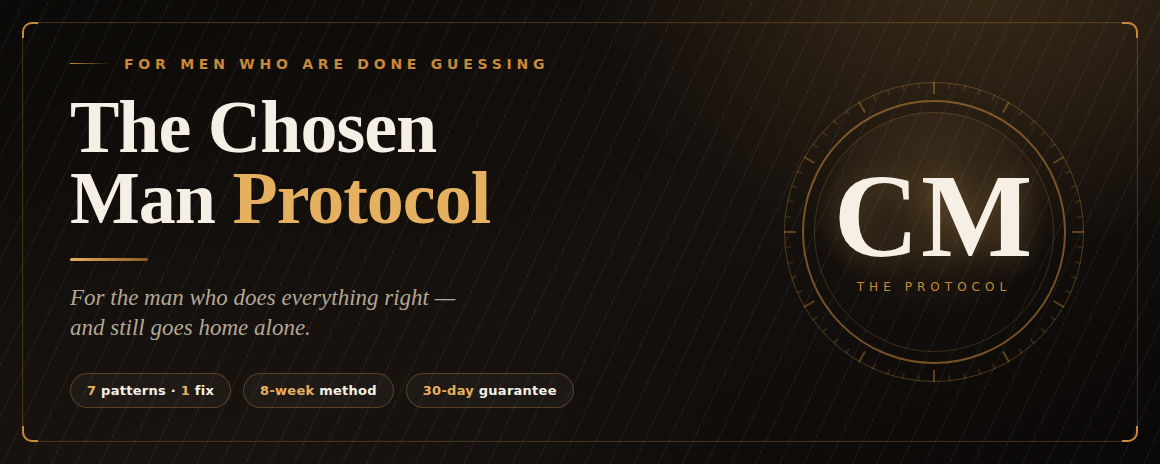
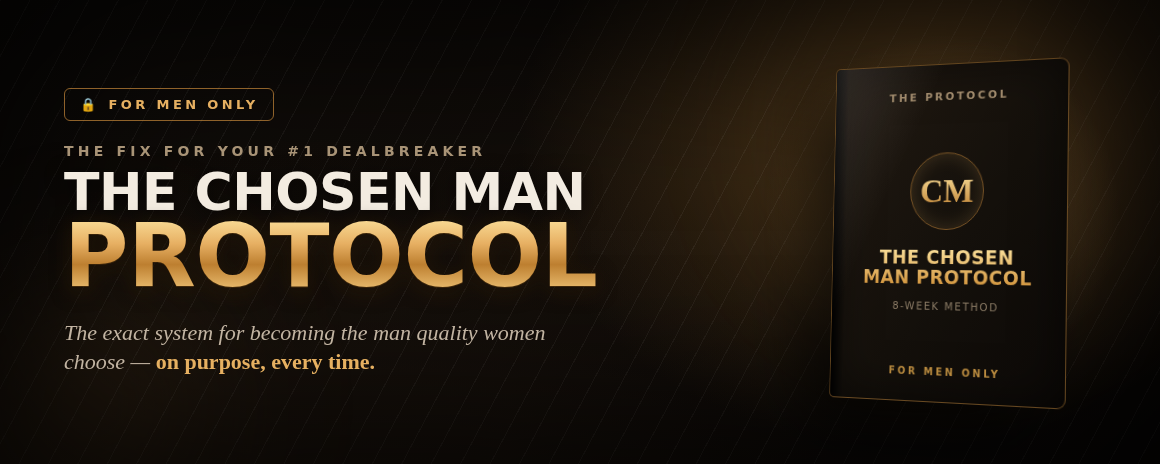
Rework Lava Top offer + cover to match mentor's style
After seeing the mentor's actual Lava Top page (Timur Karimov, "The First
Date Blueprint", $29):

- lava-top-offer.md: rewritten to his lean, punchy format — short
  empathetic hook + reframe, "Inside you'll get" with 8 specific arrow
  bullets, and the "one coffee / completely different dating life" close.
  Keeps $29 and the Chosen Man Protocol content.
- cover-1160x464.png: redesigned bolder and more dramatic to match his
  energy — heavy uppercase title with metallic-gold "PROTOCOL", a
  FOR MEN ONLY badge, moody atmosphere, and a 3D book mockup. Still
  exactly 1160x464.
- cover-source.html: updated source.

Claude-Session: https://claude.ai/code/session_01QY2NHMhyamBovSt7zUoXhV

diff --git a/product/cover-source.html b/product/cover-source.html
@@ -3,116 +3,102 @@
 <head>
 <meta charset="utf-8">
 <style>
-  @page{size:1160px 464px;margin:0}
   *{margin:0;padding:0;box-sizing:border-box}
   html,body{width:1160px;height:464px;overflow:hidden}
   :root{
-    --gold:#c8893a;--gold-soft:#e6b061;--gold-deep:#8a5a1e;
-    --ink:#f5efe5;--muted:#b3a796;--muted-2:#7d7264;
-    --serif:"Bitstream Charter","Liberation Serif",Georgia,serif;
     --sans:"DejaVu Sans","Liberation Sans",Arial,sans-serif;
+    --serif:"Bitstream Charter","Liberation Serif",Georgia,serif;
   }
-  .stage{position:relative;width:1160px;height:464px;
+  .stage{position:relative;width:1160px;height:464px;overflow:hidden;font-family:var(--sans);
     background:
-      radial-gradient(680px 520px at 84% -8%, #3a2a17 0%, rgba(58,42,23,0) 58%),
-      radial-gradient(900px 700px at 18% 120%, #1a1410 0%, rgba(26,20,16,0) 60%),
-      linear-gradient(155deg,#0c0a08 0%, #15110d 55%, #0a0807 100%);
-    overflow:hidden;font-family:var(--sans)}
-  /* subtle texture lines */
-  .grain{position:absolute;inset:0;opacity:.06;
-    background-image:repeating-linear-gradient(115deg, #fff 0 1px, transparent 1px 22px)}
-  /* inset frame */
-  .frame{position:absolute;inset:22px;border:1px solid rgba(200,137,58,.28);border-radius:10px;
-    box-shadow:inset 0 0 0 1px rgba(255,255,255,.02)}
-  .corner{position:absolute;width:16px;height:16px;border:2px solid var(--gold)}
-  .corner.tl{top:22px;left:22px;border-right:none;border-bottom:none;border-radius:10px 0 0 0}
-  .corner.tr{top:22px;right:22px;border-left:none;border-bottom:none;border-radius:0 10px 0 0}
-  .corner.bl{bottom:22px;left:22px;border-right:none;border-top:none;border-radius:0 0 0 10px}
-  .corner.br{bottom:22px;right:22px;border-left:none;border-top:none;border-radius:0 0 10px 0}
+      radial-gradient(700px 560px at 78% 30%, #4a3417 0%, rgba(74,52,23,0) 55%),
+      radial-gradient(900px 700px at 30% 120%, #19120c 0%, rgba(25,18,12,0) 60%),
+      linear-gradient(160deg,#0b0907 0%, #120d09 50%, #080605 100%);}
+  /* smoke / atmosphere */
+  .smoke{position:absolute;border-radius:50%;filter:blur(60px);opacity:.5}
+  .s1{width:520px;height:420px;right:-60px;top:-80px;background:radial-gradient(circle,#6b4a22,transparent 65%)}
+  .s2{width:420px;height:360px;left:-120px;bottom:-120px;background:radial-gradient(circle,#3a2a16,transparent 65%);opacity:.6}
+  .grain{position:absolute;inset:0;opacity:.05;
+    background-image:repeating-linear-gradient(118deg,#fff 0 1px,transparent 1px 26px)}
+  .vignette{position:absolute;inset:0;box-shadow:inset 0 0 160px 40px rgba(0,0,0,.75)}
 
-  .content{position:absolute;inset:0;display:flex;align-items:center;justify-content:space-between;
-    padding:54px 70px}
-  /* left */
-  .left{max-width:710px}
-  .eyebrow{font-size:14px;letter-spacing:.34em;text-transform:uppercase;color:var(--gold);
-    font-weight:700;margin-bottom:20px;display:flex;align-items:center;gap:14px}
-  .eyebrow .ln{width:40px;height:1px;background:linear-gradient(90deg,var(--gold),transparent)}
-  h1{font-family:var(--serif);font-weight:700;color:var(--ink);
-    font-size:74px;line-height:.96;letter-spacing:-1px}
-  h1 .alt{color:var(--gold-soft)}
-  .rule{width:78px;height:3px;background:linear-gradient(90deg,var(--gold-soft),var(--gold-deep));
-    margin:24px 0 22px;border-radius:2px}
-  .sub{font-family:var(--serif);font-size:23px;line-height:1.32;color:var(--muted);max-width:560px;font-style:italic}
-  .pills{display:flex;gap:12px;margin-top:30px}
-  .pill{font-family:var(--sans);font-size:13px;font-weight:600;letter-spacing:.02em;color:var(--ink);
-    background:rgba(255,255,255,.035);border:1px solid rgba(200,137,58,.35);
-    padding:9px 16px;border-radius:99px;white-space:nowrap}
-  .pill b{color:var(--gold-soft)}
+  .content{position:absolute;inset:0;display:flex;align-items:center;padding:0 64px}
+  /* LEFT */
+  .left{width:660px;z-index:3}
+  .badge{display:inline-flex;align-items:center;gap:9px;border:1.5px solid rgba(200,137,58,.7);
+    color:#e6b061;font-size:13px;font-weight:700;letter-spacing:.26em;text-transform:uppercase;
+    padding:8px 15px;border-radius:6px;margin-bottom:22px}
+  .badge .lock{font-size:13px}
+  .kicker{font-size:14px;letter-spacing:.30em;text-transform:uppercase;color:#a99477;font-weight:700;margin-bottom:10px}
+  .title{font-family:var(--sans);font-weight:800;text-transform:uppercase;line-height:.92;letter-spacing:-.5px}
+  .title .l1{font-size:52px;color:#f3ece1;text-shadow:0 2px 18px rgba(0,0,0,.6)}
+  .title .l2{font-size:88px;
+    background:linear-gradient(180deg,#fbe09b 0%,#e7b063 34%,#bd7f30 60%,#f6cd80 100%);
+    -webkit-background-clip:text;background-clip:text;color:transparent;
+    filter:drop-shadow(0 3px 10px rgba(0,0,0,.55)) drop-shadow(0 1px 0 rgba(120,75,20,.6))}
+  .sub{font-family:var(--serif);font-style:italic;font-size:22px;line-height:1.3;color:#c2b4a2;
+    max-width:540px;margin-top:22px}
+  .sub b{color:#e6b061;font-style:normal;font-weight:700}
 
-  /* right emblem */
-  .emblem{position:relative;width:300px;height:300px;flex:0 0 auto;margin-right:6px}
-  .ring{position:absolute;border-radius:50%}
-  .ring.r1{inset:0;border:1px solid rgba(200,137,58,.35)}
-  .ring.r2{inset:18px;border:2px solid rgba(200,137,58,.55)}
-  .ring.r3{inset:30px;border:1px solid rgba(200,137,58,.25)}
-  .glow{position:absolute;inset:30px;border-radius:50%;
-    background:radial-gradient(circle at 50% 35%, rgba(230,176,97,.16), rgba(230,176,97,0) 62%)}
-  .mono{position:absolute;inset:30px;display:flex;flex-direction:column;align-items:center;justify-content:center}
-  .mono .big{font-family:var(--serif);font-weight:700;font-size:118px;line-height:.8;
-    color:var(--ink);letter-spacing:2px;
-    text-shadow:0 2px 30px rgba(230,176,97,.25)}
-  .mono .cap{font-family:var(--sans);font-size:12px;letter-spacing:.42em;text-transform:uppercase;
-    color:var(--gold);margin-top:16px}
-  /* tick marks around ring */
-  .tick{position:absolute;top:50%;left:50%;width:2px;height:9px;background:rgba(200,137,58,.6);
-    transform-origin:50% 150px}
+  /* RIGHT — book mockup */
+  .right{position:absolute;right:90px;top:50%;transform:translateY(-50%);z-index:2}
+  .glowpad{position:absolute;width:420px;height:420px;left:-90px;top:-60px;border-radius:50%;
+    background:radial-gradient(circle,rgba(230,176,97,.20),transparent 60%)}
+  .book{position:relative;width:248px;height:340px;
+    transform:perspective(1100px) rotateY(-19deg) rotateX(3deg);transform-style:preserve-3d;
+    background:linear-gradient(125deg,#221a12 0%,#14100b 55%,#0c0907 100%);
+    border:1px solid rgba(200,137,58,.45);border-radius:5px 9px 9px 5px;
+    box-shadow:-34px 36px 70px rgba(0,0,0,.65), inset 0 0 50px rgba(0,0,0,.55);}
+  .book .spine{position:absolute;left:0;top:0;width:14px;height:100%;
+    background:linear-gradient(90deg,#000,rgba(0,0,0,0));border-radius:5px 0 0 5px}
+  .book .sheen{position:absolute;inset:0;border-radius:5px 9px 9px 5px;
+    background:linear-gradient(115deg,rgba(255,255,255,.10) 0%,rgba(255,255,255,0) 30%)}
+  .bk{position:absolute;inset:0;display:flex;flex-direction:column;align-items:center;justify-content:center;padding:26px 20px;text-align:center}
+  .bk .top{font-size:11px;letter-spacing:.24em;text-transform:uppercase;color:#a08a6c;font-weight:700;position:absolute;top:26px;left:0;right:0}
+  .emb{width:78px;height:78px;border-radius:50%;border:1px solid rgba(200,137,58,.55);
+    display:flex;align-items:center;justify-content:center;margin-bottom:18px;
+    box-shadow:inset 0 0 18px rgba(230,176,97,.18)}
+  .emb .cm{font-family:var(--serif);font-weight:700;font-size:34px;
+    background:linear-gradient(180deg,#fbe09b,#bd7f30);-webkit-background-clip:text;background-clip:text;color:transparent}
+  .bk .bt{font-family:var(--sans);font-weight:800;text-transform:uppercase;font-size:19px;line-height:1.05;letter-spacing:.5px;
+    background:linear-gradient(180deg,#fbe09b,#cf9038);-webkit-background-clip:text;background-clip:text;color:transparent}
+  .bk .bs{font-size:10.5px;letter-spacing:.16em;text-transform:uppercase;color:#8a7a64;margin-top:12px}
+  .bk .men{position:absolute;bottom:24px;left:0;right:0;font-size:10px;letter-spacing:.28em;text-transform:uppercase;color:#b98a3e;font-weight:700}
 </style>
 </head>
 <body>
   <div class="stage">
+    <div class="smoke s1"></div><div class="smoke s2"></div>
     <div class="grain"></div>
-    <div class="frame"></div>
-    <div class="corner tl"></div><div class="corner tr"></div>
-    <div class="corner bl"></div><div class="corner br"></div>
 
     <div class="content">
       <div class="left">
-        <div class="eyebrow"><span class="ln"></span>For men who are done guessing</div>
-        <h1>The Chosen<br>Man <span class="alt">Protocol</span></h1>
-        <div class="rule"></div>
-        <div class="sub">For the man who does everything right&nbsp;—<br>and still goes home alone.</div>
-        <div class="pills">
-          <div class="pill"><b>7</b> patterns &middot; <b>1</b> fix</div>
-          <div class="pill"><b>8-week</b> method</div>
-          <div class="pill"><b>30-day</b> guarantee</div>
+        <div class="badge"><span class="lock">🔒</span> For Men Only</div>
+        <div class="kicker">The fix for your #1 dealbreaker</div>
+        <div class="title">
+          <div class="l1">The Chosen Man</div>
+          <div class="l2">Protocol</div>
         </div>
+        <div class="sub">The exact system for becoming the man quality women<br>choose — <b>on purpose, every time.</b></div>
       </div>
+    </div>
 
-      <div class="emblem">
-        <div class="ring r1"></div>
-        <div class="ring r2"></div>
-        <div class="ring r3"></div>
-        <div class="glow"></div>
-        <div id="ticks"></div>
-        <div class="mono">
-          <div class="big">CM</div>
-          <div class="cap">The Protocol</div>
+    <div class="right">
+      <div class="glowpad"></div>
+      <div class="book">
+        <div class="spine"></div>
+        <div class="sheen"></div>
+        <div class="bk">
+          <div class="top">The Protocol</div>
+          <div class="emb"><span class="cm">CM</span></div>
+          <div class="bt">The Chosen<br>Man Protocol</div>
+          <div class="bs">8-Week Method</div>
+          <div class="men">For Men Only</div>
         </div>
       </div>
     </div>
+
+    <div class="vignette"></div>
   </div>
-<script>
-  // tick marks around the emblem
-  const t=document.getElementById('ticks');
-  for(let i=0;i<60;i++){
-    const d=document.createElement('div');d.className='tick';
-    const big=(i%5===0);
-    d.style.height=big?'12px':'6px';
-    d.style.opacity=big?'0.7':'0.3';
-    d.style.transform='translate(-50%,-150px) rotate('+(i*6)+'deg)';
-    d.style.transformOrigin='50% 150px';
-    t.appendChild(d);
-  }
-</script>
 </body>
 </html>

diff --git a/product/lava-top-offer.md b/product/lava-top-offer.md
@@ -1,133 +1,72 @@
 # Lava Top Sales Page — The Chosen Man Protocol
 
-Copy-paste-ready listing for **app.lava.top**. Fields are labelled to match the
-platform (Title → Cover → Price → Short description → Full description → FAQ).
-Built on the Grand Slam Offer structure from your `$100M Offers` notes:
-**Dream Outcome × Perceived Likelihood ÷ Time Delay × Effort & Sacrifice.**
+Copy-paste-ready listing for **app.lava.top**, written to match the lean, punchy
+format of the mentor's "First Date Blueprint" page (short hook → reframe → "Inside
+you'll get" → specific `→` bullets → one-coffee close). Price **$29**.
 
-> Cover image: `product/cover-1160x464.png` (exactly 1160×464, on-brand).
-> Price: **$29** (matched to your mentor's).
+> Cover image: `product/cover-1160x464.png` (exactly 1160×464).
 
 ---
+
+## ▸ PRODUCT TYPE
+Digital product
 
 ## ▸ TITLE
 **The Chosen Man Protocol — Become the Man Quality Women Actually Choose**
 
-## ▸ SHORT DESCRIPTION (subtitle near the price)
-The 8-week method for men who do everything right — and still go home alone. Name the one invisible pattern that's costing you, then break it. Step by step.
+## ▸ COVER
+Upload `product/cover-1160x464.png`
 
 ## ▸ PRICE
-**$29** *(one-time · instant access · lifetime updates)*
+**$29.00 USD**
 
 ---
 
-## ▸ FULL DESCRIPTION
+## ▸ DESCRIPTION (paste this as the body)
 
-**You're not broke. You're not ugly. You do everything "right."**
-And dates still go nowhere.
+You've done everything right — and you're still single.
 
-You've read the advice. Fixed the profile. Hit the gym. Maybe you even get the
-matches and the first dates — and then, every time, the same quiet fade. The
-polite "I'm busy." The spark that never lands. And no one can tell you *why*.
+Not because you're boring. Not because you're not good enough.
 
-Here's why: there's **one invisible pattern** running underneath it — and you
-can't fix what you can't see. There are seven of them, and almost every man who
-stays stuck is being silently run by one:
+Because no one ever showed you the one invisible pattern quietly killing your results.
 
-> The Over-Pursuer · The Performer · The Approval-Seeker · The Passive Waiter ·
-> The Weak Frame · The Optimized Ghost · The Pushover
+The Chosen Man Protocol is a step-by-step system for men who are done "doing all the right things" and still going home alone — and ready to become the man a quality woman actually chooses.
 
-You already found yours in the test. **This is the fix.**
+**Inside you'll get:**
 
-### What you actually get
+→ The 7 invisible patterns that secretly sabotage men — and how to pin the exact one running you
 
-**The Chosen Man Protocol** is not motivation, not pickup lines, and not "just be
-confident." It's an **8-week, step-by-step operating system** that rewires the
-exact pattern keeping you single — and turns you into the kind of grounded,
-directional man a quality woman chooses *on purpose.*
+→ The daily floor: the 4 non-negotiable habits every grounded man runs (most men skip the first one)
 
-Inside:
+→ How to stop chasing without going cold — so she starts moving toward you instead
 
-- **The 7-Pattern Fix** — a dedicated chapter for each invisible dealbreaker:
-  the loop, *why* it's costing you, the one belief that breaks it, and the drills
-  that make the change stick. *(value: $97)*
-- **The Daily Floor** — the 4 non-negotiable habits the entire system stands on,
-  so progress compounds instead of fading after a motivated week. *(value: $37)*
-- **A "First Move This Week" for every pattern** — real action, not theory. You
-  start changing results in the first 7 days. *(value: $47)*
-- **The 8-Week Integration Arc** — exactly what to install, in what order, so you
-  don't overwhelm yourself or quit. *(value: $67)*
-- **4 field tools** you'll keep for life: the *First-15-Minutes* date opener, the
-  *texts-that-kill-attraction* fixes, the *Ideal-Woman* worksheet, and the
-  *12-point Relationship-Ready Audit.* *(value: $67)*
+→ The conversation presence that creates real attraction — not performing, not interview questions
 
-**Total value: $315. Today: $29.**
+→ How to tell when she's pulling back, and exactly what to do instead of pushing harder
 
-### Why this works when nothing else did
+→ The grounded-presence checklist that makes you read as certain in the first 4 seconds — before you say a word
 
-Everything you tried before treated the symptom — the texts, the profile, the
-outfit. This treats the **cause**: the one pattern underneath all of it. Fix the
-cause and the symptoms fix themselves. It's built to be **fast** (first move in 7
-days), **simple** (one pattern at a time), and **real** (no scripts, no acting —
-just becoming someone genuinely worth choosing).
+→ How to set standards that make a quality woman want to earn you — with zero arrogance
 
-### The guarantee — the risk is mine, not yours
+→ The 8-week plan that turns all of it into who you *are* — not an act you perform on dates
 
-**30-Day "Chosen" Guarantee.** Run the protocol for 30 days. Do the daily floor
-and your pattern's first moves. If you don't feel like a more grounded, clearer,
-more attractive man — one who's done guessing — email me and I'll refund every
-cent. No forms, no hoops. You keep the material.
+This is not theory. Every chapter is specific, direct, and immediately usable.
 
-You have nothing to lose except the next year of going home alone.
-
-### This is for you if…
-- You're successful in most areas — but your dating life doesn't match.
-- You keep "doing the right things" and staying invisible.
-- You're done with tricks and ready to actually become the man, not perform him.
-
-### This is **not** for you if…
-- You want manipulation tactics to "trick" women. This is the opposite.
-- You won't do 20 minutes of honest work a day for 8 weeks.
+Price: one coffee. Result: a completely different dating life.
 
 ---
 
-**You were never undateable. You were unfinished.**
-Name the pattern. Do the work. Become the man who gets chosen.
+## ▸ OPTIONAL — add under the bullets if you want a risk-reversal (mentor's page has none, but it lifts conversions)
 
-### 👉 Get instant access — $29
-
----
-
-## ▸ FAQ
-
-**How do I get it after paying?**
-Instant access — the full protocol opens the moment your payment clears, readable
-on any device, plus a printable PDF you keep forever.
-
-**Do I need to have taken the quiz first?**
-No, but it helps — the quiz names your dominant pattern so you know which chapter
-to run first. The protocol covers all seven either way.
-
-**Is this pickup / manipulation?**
-No. There are no scripts or tricks. It's about becoming genuinely grounded,
-clear, and selective — the real reasons quality women commit. It's coaching, not
-deception.
-
-**How long until I see results?**
-You make your first real move in week one. Most men feel the internal shift
-(less anxiety, more presence) within the first two weeks; the dating results
-follow the man you become over the 8 weeks.
-
-**What if it doesn't work for me?**
-Then you pay nothing. 30-day, no-questions-asked refund — and you keep everything.
+> Run it for 30 days. If you're not a more grounded, clearer, more attractive man — message me and I'll refund every cent. You keep the material.
 
 ---
 
-### Owner notes
-- **Cover:** upload `product/cover-1160x464.png`.
-- **Price:** set to **$29** (USD). Lava Top will localise to RUB/EUR automatically.
-- **"Get instant access" button / delivery:** attach the product file —
-  either the printable `product/the-chosen-man-protocol.html` (Print → Save as PDF)
-  or host it and deliver the link. Point the quiz's `PRODUCT_URL` at this Lava Top
-  listing once it's live so the funnel connects end-to-end.
-- All value figures are anchors for the price stack — adjust to taste.
+### Owner notes (not shown to buyers)
+- **Title field:** Lava Top wraps long titles fine; the full title above reads well in the highlighted style.
+- **Price:** set to **$29.00**, currency USD — Lava Top localises to RUB/EUR automatically.
+- **Delivery / "Купить" file:** attach the product itself — print `product/the-chosen-man-protocol.html`
+  to PDF (Print → Save as PDF) and upload it as the deliverable, or host the HTML and deliver the link.
+- **Close the funnel:** once the listing is live, set `PRODUCT_URL` in `index.html` to this Lava Top URL
+  so the quiz result button sends buyers straight here.
+- **"FOR MEN ONLY"** badge is baked into the cover, mirroring the mentor's page.
